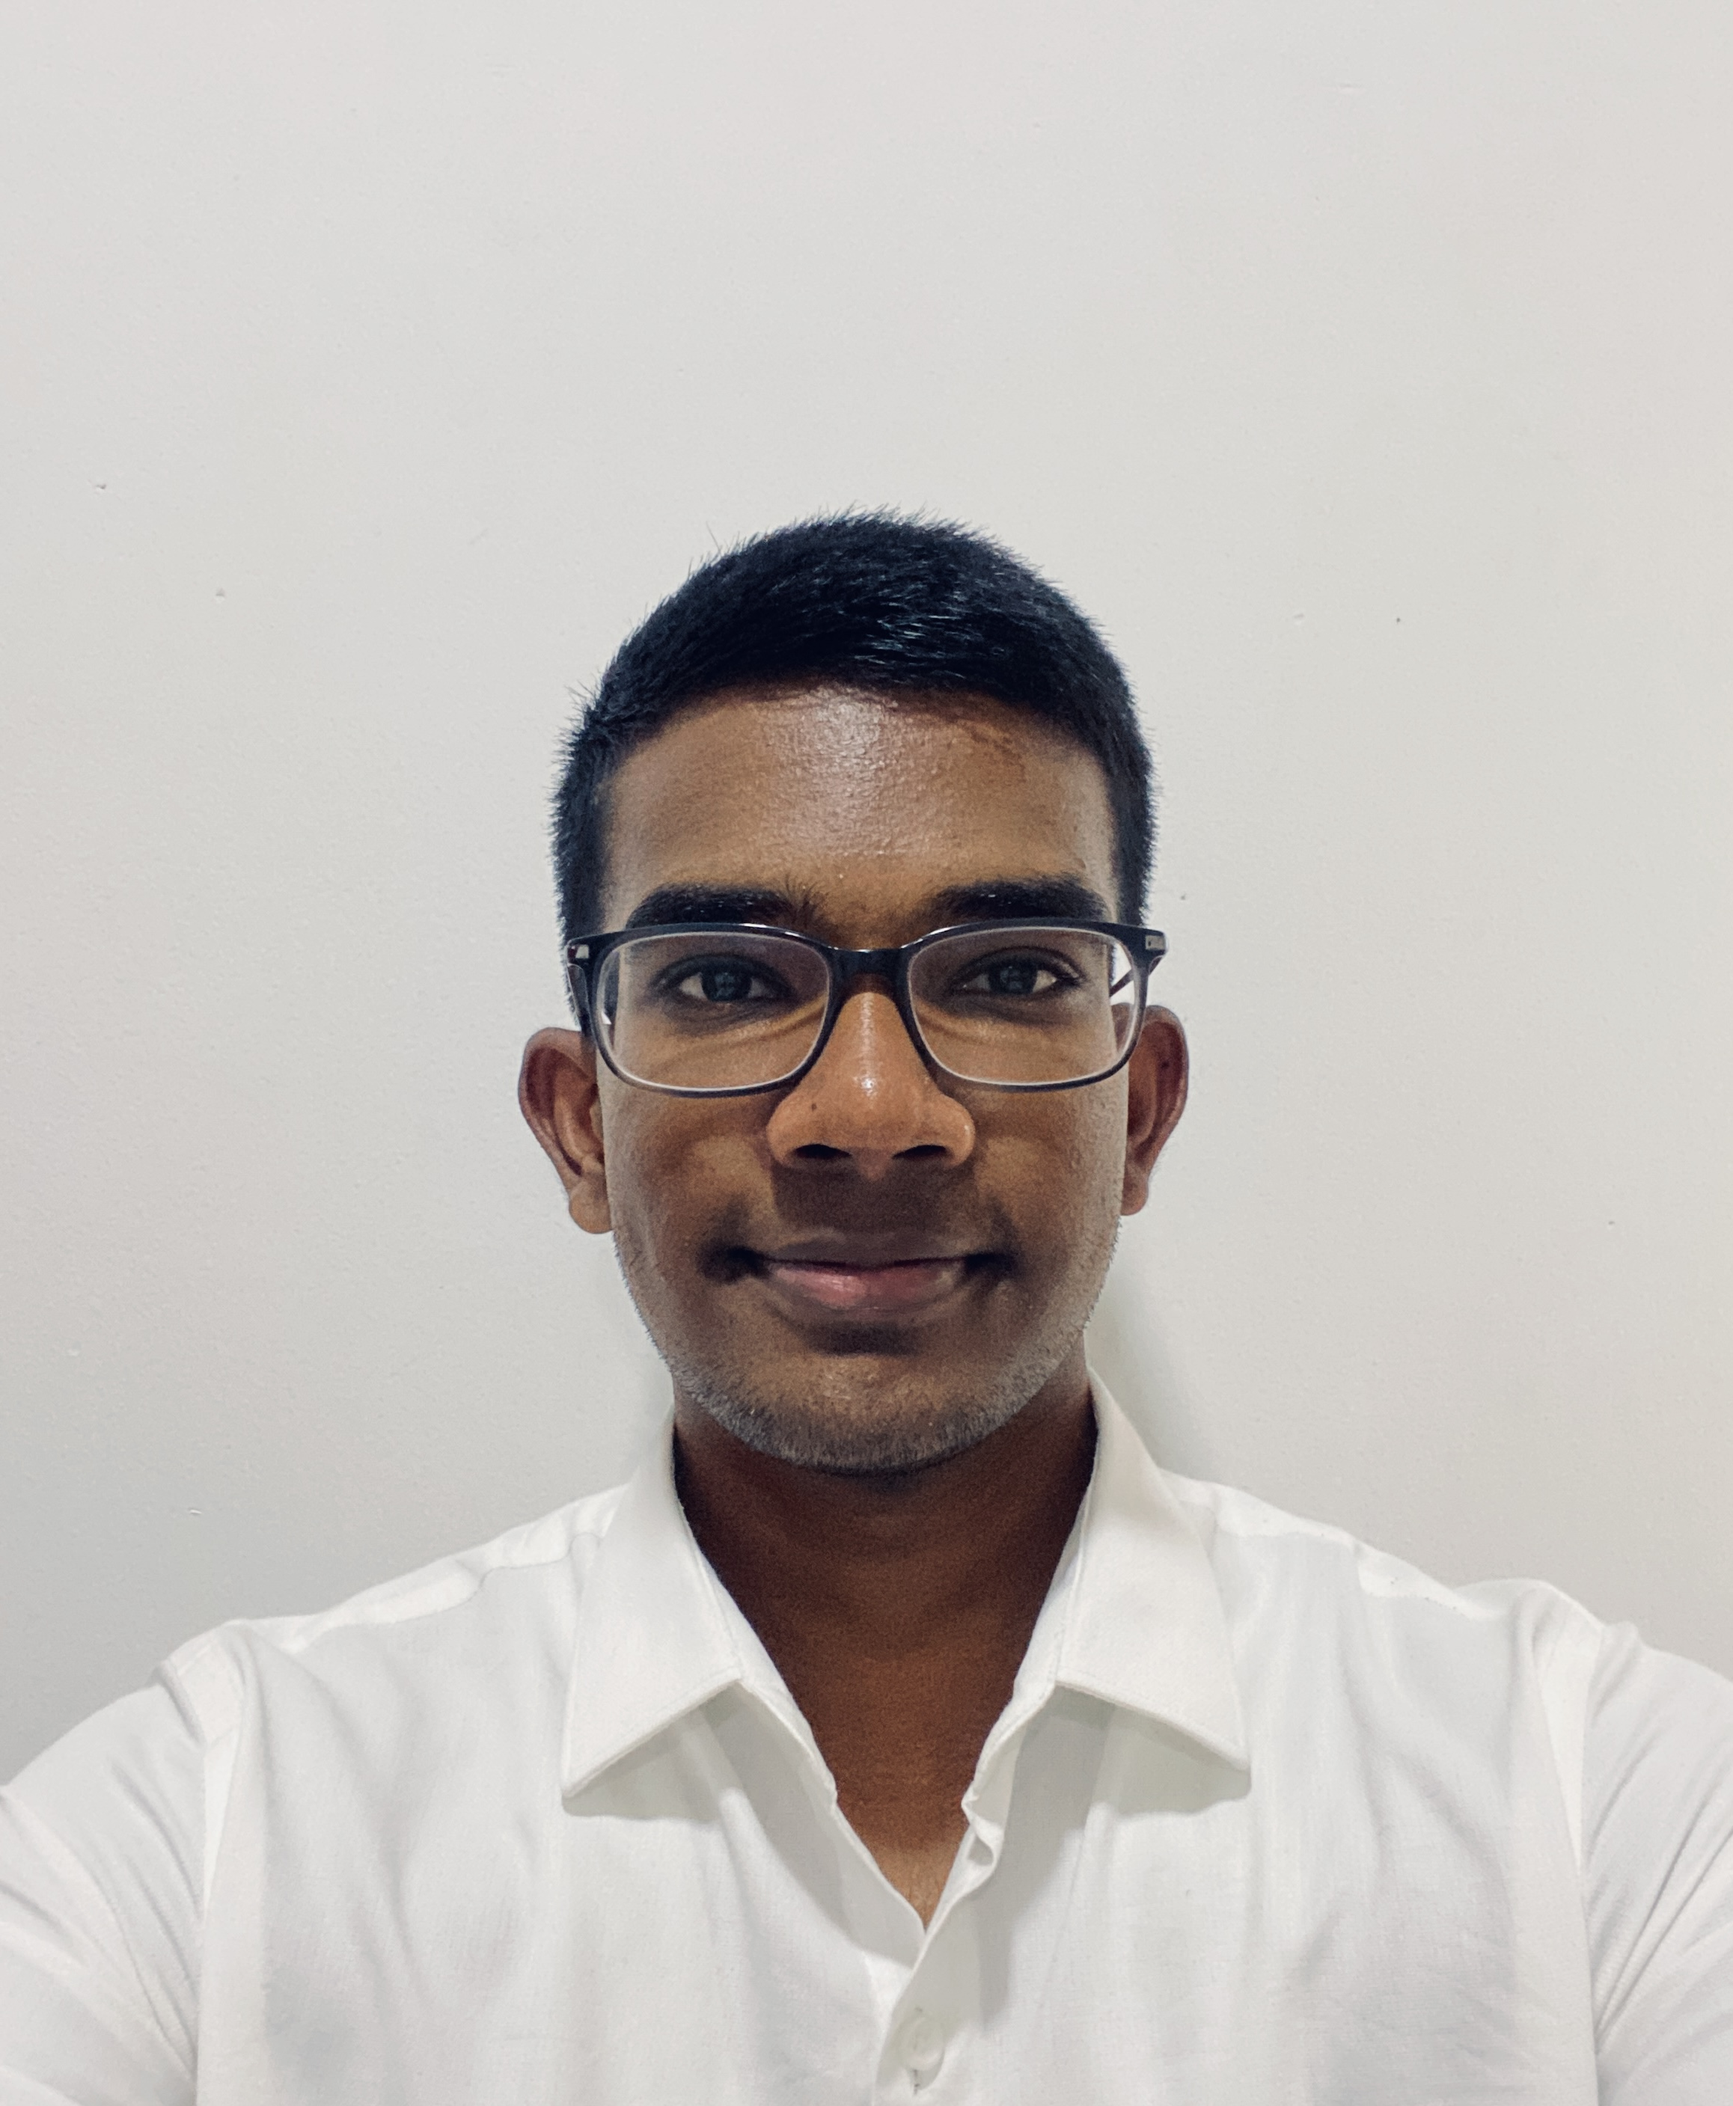
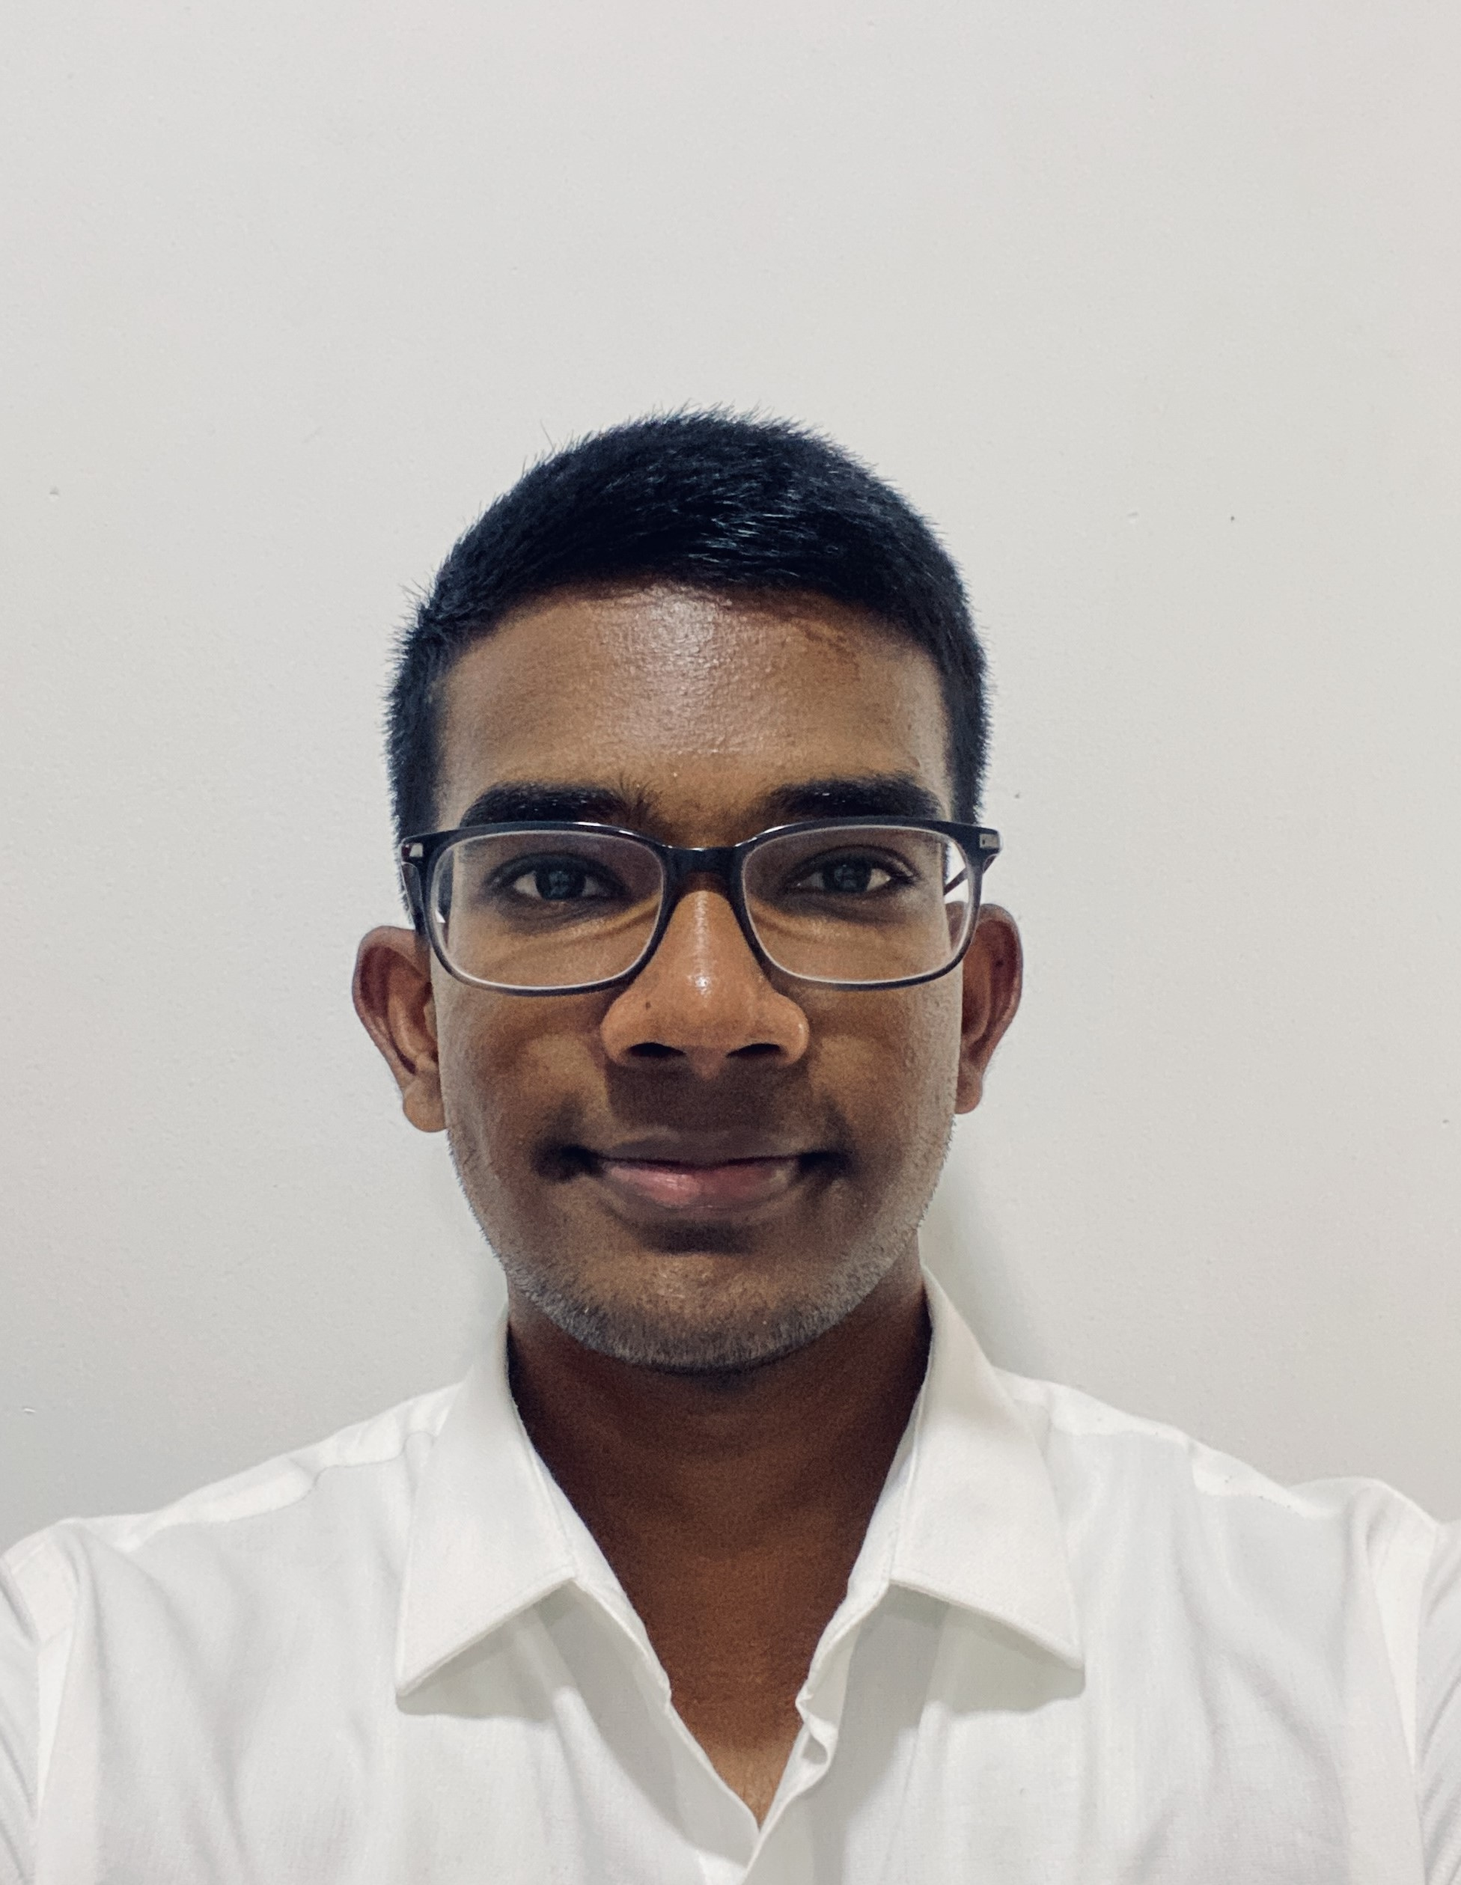
Minor changes to the about us page

diff --git a/sdgp-roamceylon/src/Components/AboutUsPage/AboutUsPage.js b/sdgp-roamceylon/src/Components/AboutUsPage/AboutUsPage.js
@@ -11,6 +11,7 @@ import { authorizationActions } from "../../store";
 import GalleImage from '../LocationDescriptionPages/Images/newgalleimge1.jpg';
 import axios from "axios";
 import thinalimage from "./Thinal.JPG";
+import puleeshaimage from "./Puleesha.jpg";
 
 function App(){
 
@@ -81,7 +82,7 @@ function App(){
             <Creator name="Neelesh Gamage" email="neelesh.20221028@iit.ac.lk"/>
           </div>
           <div className="developer-container">
-            <img className="about-image" src={D1}></img>
+            <img className="about-image" src={puleeshaimage}></img>
             <Creator name="Puleesha Vilhan" email="puleesha.20221061@iit.ac.lk"/>
           </div>
           <div className="developer-container">
